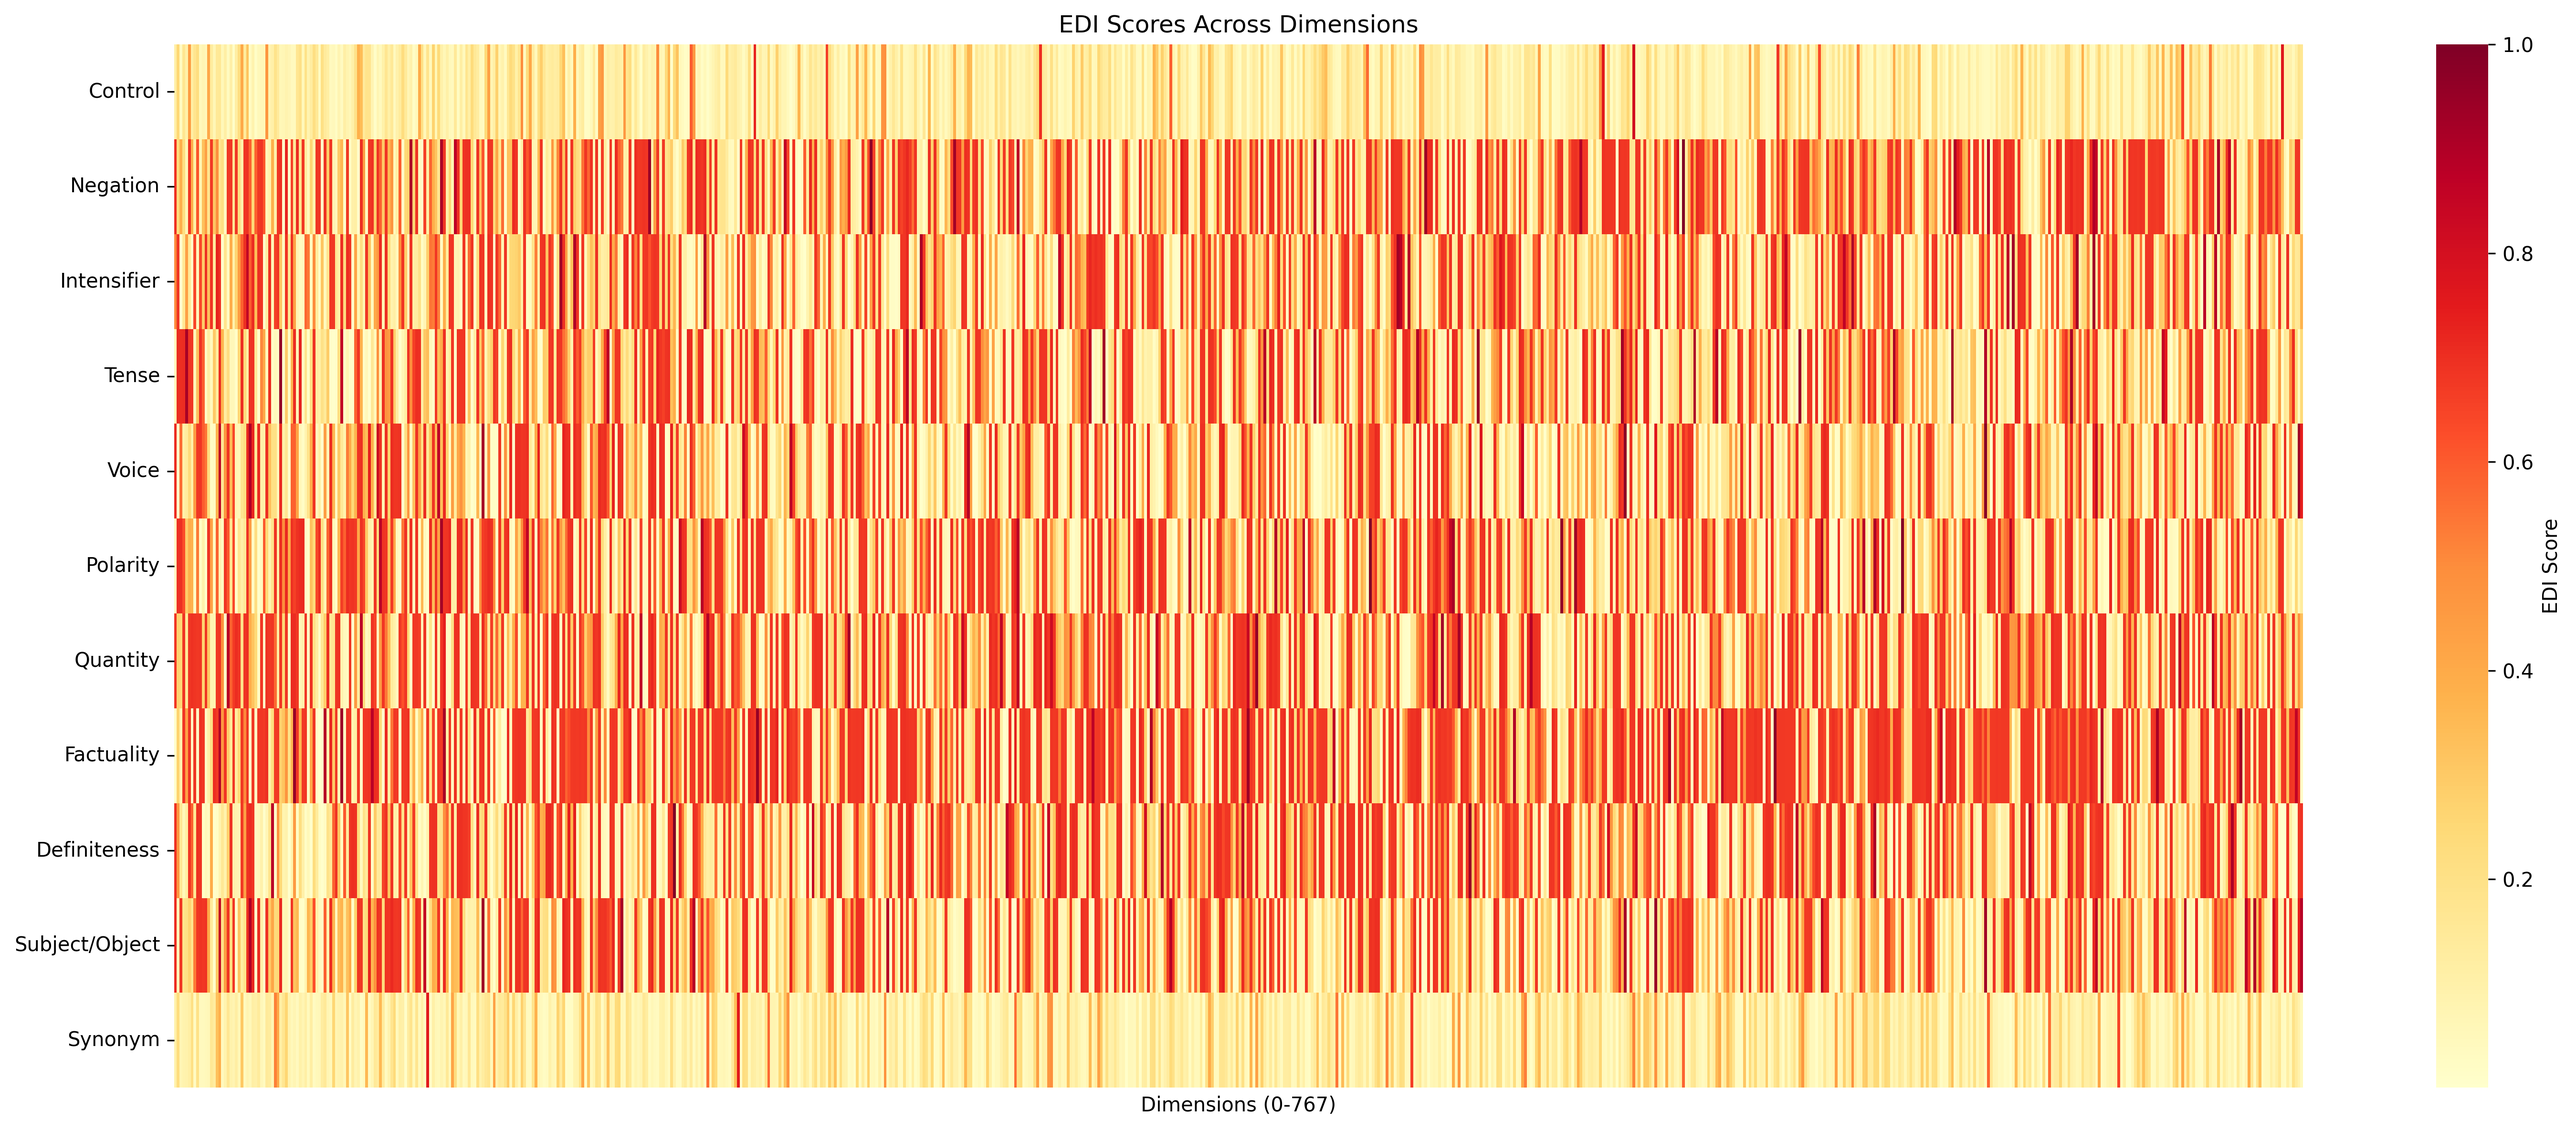
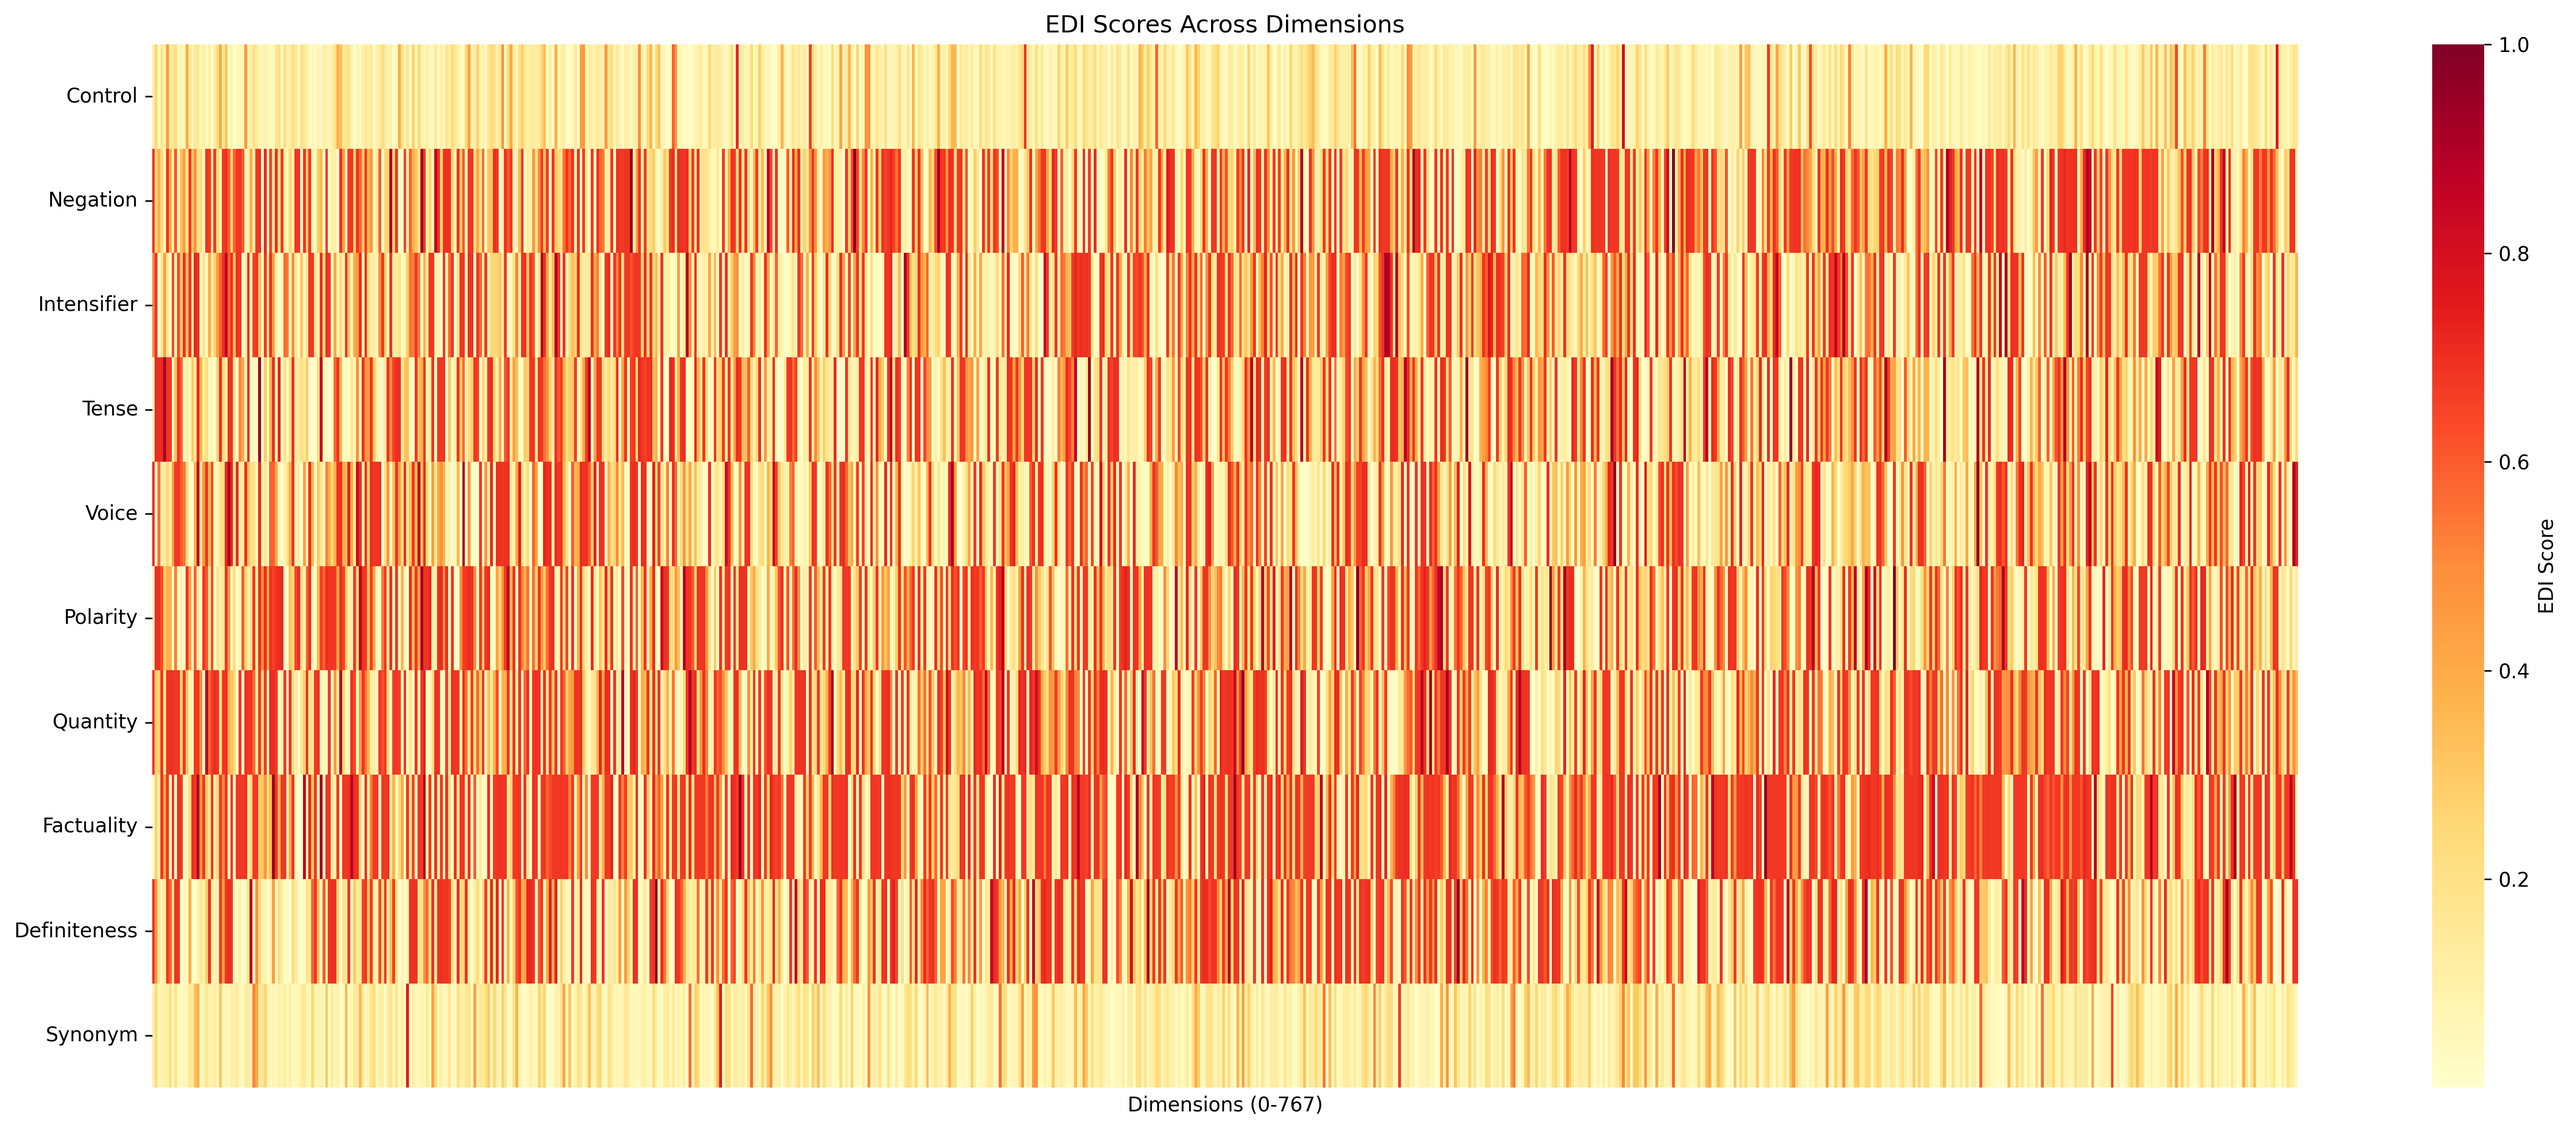
final main plot

diff --git a/plot_all_lps.py b/plot_all_lps.py
@@ -19,7 +19,6 @@ def create_edi_comparison_table(embedding_dim):
         'Quantity': 'results/quantity/edi_scores/edi_score.csv',
         'Factuality': 'results/factuality/edi_scores/edi_score.csv',
         'Definiteness': 'results/definiteness/edi_scores/edi_score.csv',
-        'Subject/Object': 'results/subjectObject/edi_scores/edi_score.csv',
         'Synonym': 'results/synonym/edi_scores/edi_score.csv'
     }
     
@@ -121,7 +120,7 @@ def create_colored_top_values(df, threshold=0.675):
 
 def create_colored_grid(df, threshold=0.675):
     # Create a figure with a larger size
-    plt.figure(figsize=(20, 8))
+    plt.figure(figsize=(20, 12))
     
     # Define distinct colors for each property
     colors = [
@@ -173,6 +172,9 @@ def create_colored_grid(df, threshold=0.675):
                       for i, prop in enumerate(df.index)]
     plt.legend(handles=legend_elements, 
               bbox_to_anchor=(1.05, 1), 
+              fontsize=16,
+              markerscale=2,
+              borderpad=1,
               loc='upper left')
     
     # Adjust layout and save
@@ -184,21 +186,22 @@ def create_colored_grid(df, threshold=0.675):
 
 
 if __name__ == "__main__":
-    # df = create_edi_comparison_table(768)
-    # print(f"Created table with shape: {df.shape}")
-    # print("\nFirst few columns of the table:")
-    # print(df.iloc[:, :5])
 
-    df = pd.read_csv('results/combined_edi_scores.csv', index_col=0)
+    df = create_edi_comparison_table(768)
+    print(f"Created table with shape: {df.shape}")
+    print("\nFirst few columns of the table:")
+    print(df.iloc[:, :5])
 
-    # create_highlighted_heatmap(df)
-    # print("Created heatmap at 'results/edi_scores_heatmap.png'")
+    # df = pd.read_csv('results/combined_edi_scores.csv', index_col=0)
+
+    create_highlighted_heatmap(df)
+    print("Created heatmap at 'results/edi_scores_heatmap.png'")
 
     create_colored_top_values(df, threshold=0.8)
     print("Created visualization at 'results/colored_top_edi_scores.png'")
 
-    # create_colored_grid(df)
-    # print("Created visualization at 'results/colored_grid_edi_scores.png'")
+    create_colored_grid(df, threshold=0.8)
+    print("Created visualization at 'results/colored_grid_edi_scores.png'")
 
 
 

diff --git a/utils.py b/utils.py
@@ -16,7 +16,7 @@ def get_dataset_filepaths():
 
 def get_embeddings_filepaths():
     directory = "./embeddings"
-    return [os.path.join(directory, fn) for fn in os.listdir(directory) if "gender" not in fn and "modality" not in fn and "spatial" not in fn]
+    return [os.path.join(directory, fn) for fn in os.listdir(directory) if "gender" not in fn and "modality" not in fn and "spatial" not in fn and "subject" not in fn]
 
 def get_linguistic_property(embeddings_csv):
     return embeddings_csv.split("_")[0]
